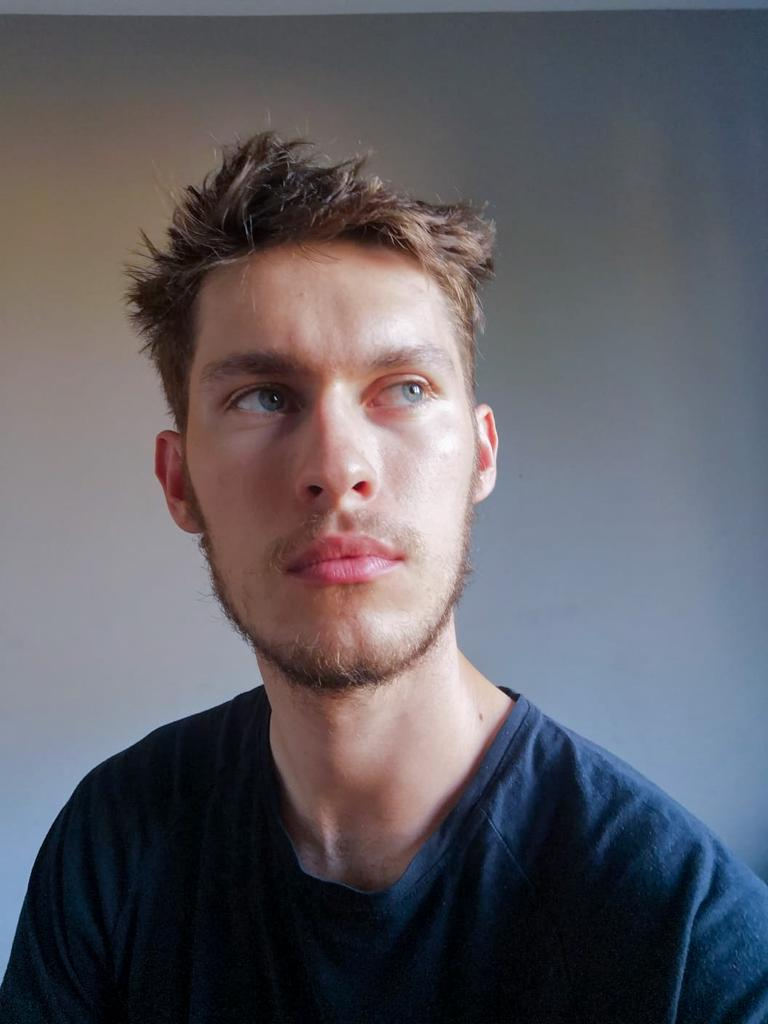
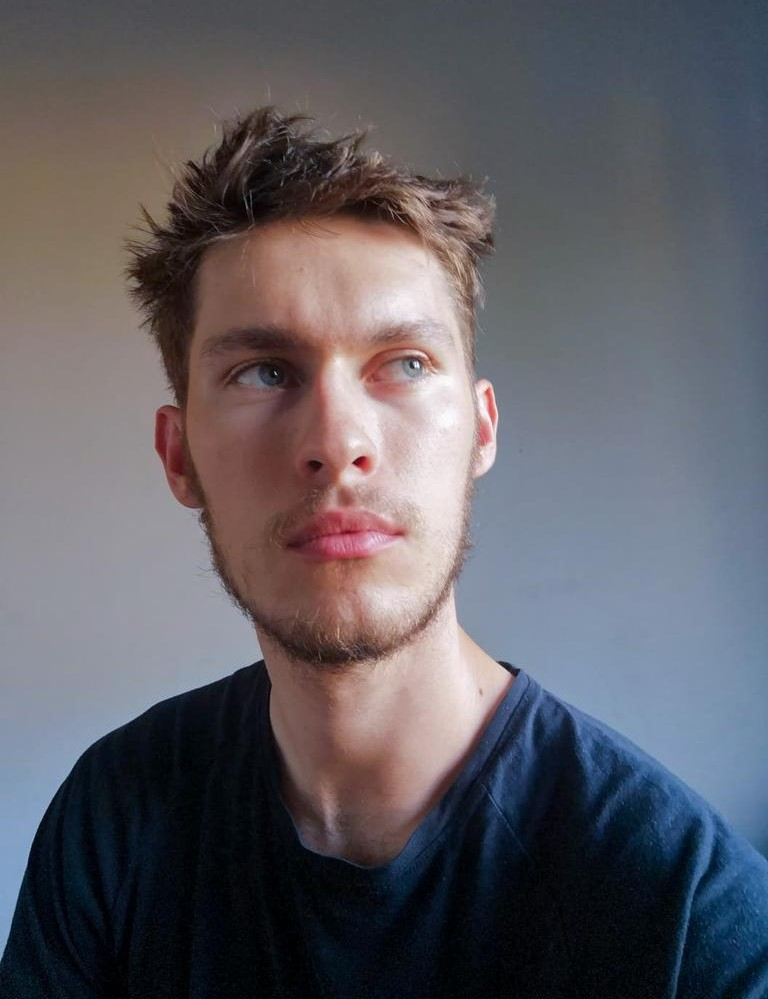
pictures optymalization

diff --git a/index.html b/index.html
@@ -73,7 +73,7 @@
                     <div class="col-4 selfie">
                         <span class="helper"></span>
                         <br>
-                        <img class="img-fluid rounded " src="img/selfie.png">
+                        <img class="img-fluid rounded " src="img/selfie.jpg">
                     </div>
                 </div>
 
